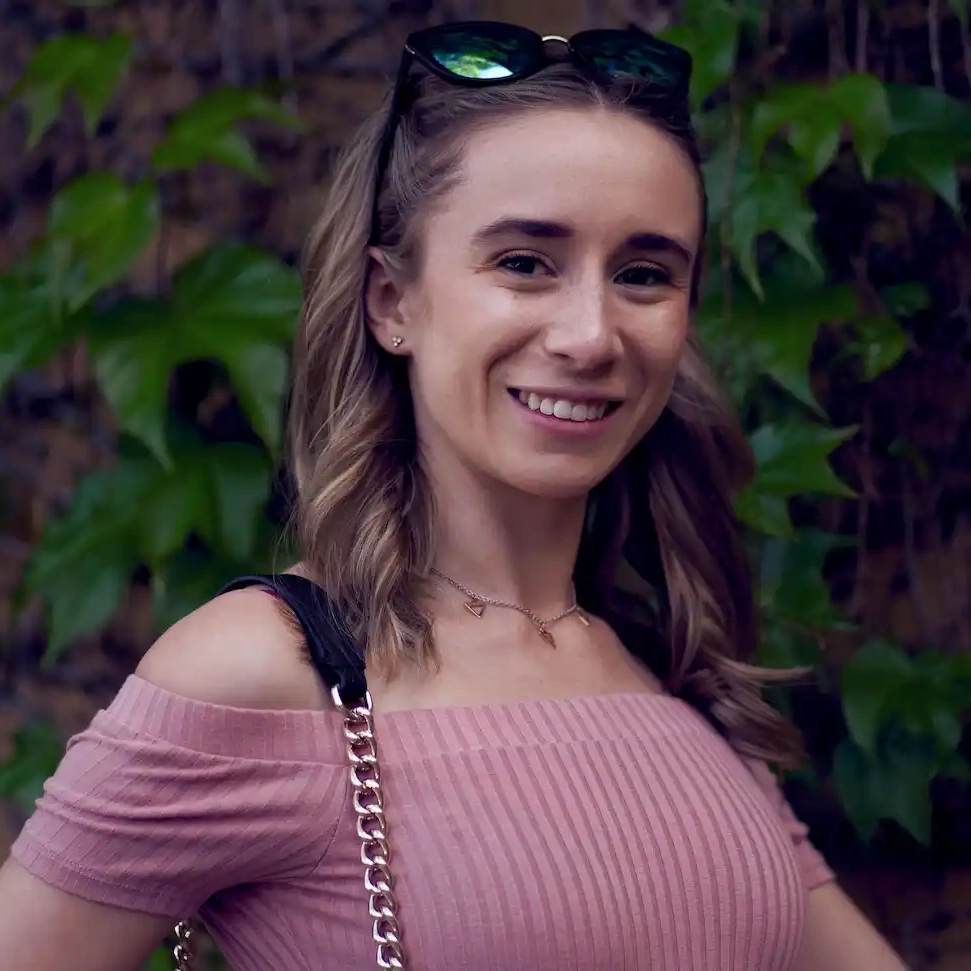
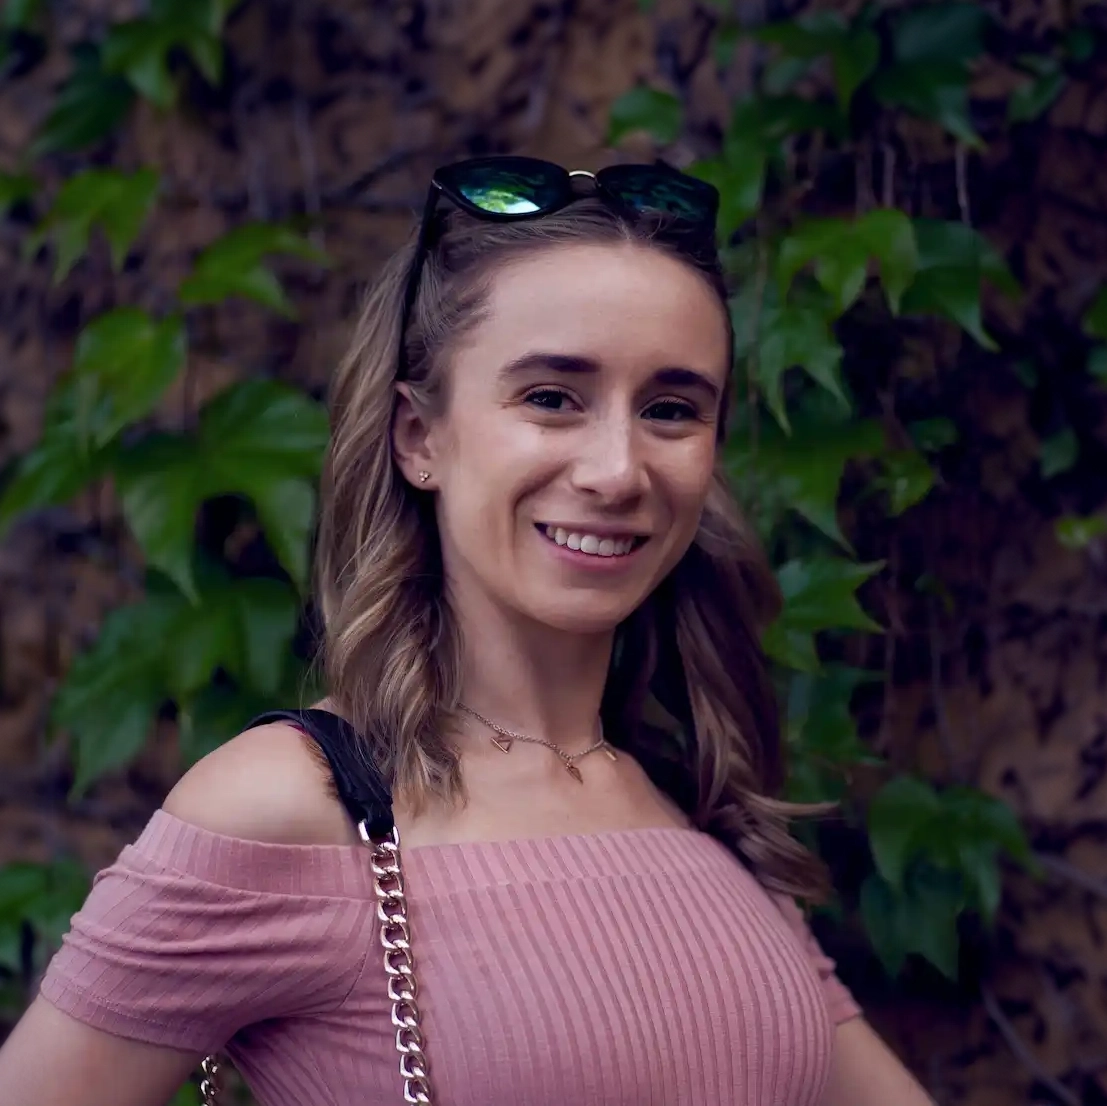
Contact page updates

diff --git a/src/styles/views/about.scss b/src/styles/views/about.scss
@@ -2,55 +2,56 @@
 
 #about-view.about.view {
     .about-trshpuppy {
-        display : flex;
-        align-items: center;
+        display     : flex;
+        align-items : center;
 
         .hero {
-            flex-shrink: 0;
-            width: 20rem;
-            height: 20rem;
-            background-repeat : no-repeat;
-            background-size   : 100%;
-            background-position: center;
-            border-radius: 50%;
-            border: 0.5rem solid $border_color;
-            transition: background-size 200ms, transform 120ms;
+            flex-shrink         : 0;
+            width               : 20rem;
+            height              : 20rem;
+            background-repeat   : no-repeat;
+            background-size     : 100%;
+            background-position : center;
+            border-radius       : 50%;
+            border              : 0.25rem solid $border_color;
+            transition          : background-size 200ms, transform 120ms;
 
             &:hover {
-                background-size: 120%;
-                transform: scale(120%);
-                border-width: 0.25rem;
+                background-size : 120%;
+                transform       : scale(120%);
+                border-width    : 0.15rem;
             }
 
             &:nth-child(odd) {
-                margin-right: 2rem;
+                margin-right : 2rem;
             }
 
             &:nth-child(even) {
-                margin-left: 2rem;
+                margin-left : 2rem;
             }
         }
 
         h2 {
-            font-family: Orbitron, monospace;
+            font-family             : Orbitron, monospace;
+            background-image        : linear-gradient(45deg, $active, $pink);
+            -webkit-background-clip : text;
+            color                   : transparent;
         }
 
         .hero.loki-and-rose {
-            background-image: url("img/loki-and-rose.webp");
-            background-position: center;
+            background-image : url("img/loki-and-rose.webp");
         }
 
         .hero.rose {
-            background-image: url("img/rose.webp");
-            background-position: center;
+            background-image : url("img/rose.webp");
         }
 
         .hero.loki-sunset {
-            background-image  : url("img/loki-sunset.webp");
+            background-image : url("img/loki-sunset.webp");
         }
 
         .info {
-            font-size: 1.2rem;
+            font-size : 1.2rem;
         }
     }
 }

diff --git a/src/views/Contact.jsx b/src/views/Contact.jsx
@@ -1,14 +1,39 @@
-import Loader from "../components/Loader.jsx";
+import Loader from '../components/Loader.jsx';
 
 const Contact = () => {
-    return (
-        <article id="contact-view" className="contact view">
-            <p>
-                <Loader />
-            </p>
-
-        </article>
-    )
-}
+   return (
+      <article id="contact-view" className="contact view">
+         <section>
+            <div className="hero hero-about"></div>
+            <div className="info">
+               <h2>Want to Chat?</h2>
+               <p>I'm active on a few platforms, please feel free to contact me on any of them.</p>
+            </div>
+         </section>
+         <section>
+            <div className="info">
+               <h2>Twitch</h2>
+               <p>About twitch</p>
+            </div>
+            <div className="hero hero-twitch"></div>
+         </section>
+         <section>
+            <div className="hero hero-youtube"></div>
+            <div className="info">
+               <h2>Youtube</h2>
+               <p>About youtube</p>
+            </div>
+         </section>
+         <section>
+            <h2>Github</h2>
+            <div className="hero hero-github"></div>
+            <div className="info">
+               <p>About twitch</p>
+               <div className="hero hero-github"></div>
+            </div>
+         </section>
+      </article>
+   );
+};
 
 export default Contact;

diff --git a/src/styles/views/contact.scss b/src/styles/views/contact.scss
@@ -1,0 +1,62 @@
+@use "../variables" as *;
+
+#contact-view.contact.view {
+    section {
+        display: flex;
+        align-items: center;
+        margin: 2rem 0;
+        width: 100%;
+    }
+
+    .info {
+        width: 100%;
+    }
+
+    .hero {
+        height: 20rem;
+        width: 20rem;
+        border: 0.25rem solid $border_color;
+        flex-shrink: 0;
+        border-radius: 2rem;
+        background-size: 100%;
+        background-position: center;
+        background-repeat: no-repeat;
+        transition          : background-size 200ms, transform 120ms;
+
+        &:hover {
+            background-size : 120%;
+            transform       : scale(120%);
+            border-width    : 0.15rem;
+        }
+
+        &:nth-child(odd) {
+            margin-right: 2rem;
+        }
+
+        &:nth-child(even) {
+            margin-left: 2rem;
+        }
+    }
+
+    .hero-about {
+        position: relative;
+        background-image: url("img/pixel/p-contact.webp");
+        filter: $hero_filter;
+
+        &:after {
+            content: "";
+            position: absolute;
+            height: 100%;
+            width: 100%;
+            top: 0;
+            left: 0;
+            background-image: $card_after_bg;
+
+        }
+    }
+
+    .hero-twitch {
+        background-image: url("img/twitch.webp");
+        width: 35rem;
+    }
+}

diff --git a/src/styles/partials/home-links.scss b/src/styles/partials/home-links.scss
@@ -42,9 +42,10 @@
             border-bottom-right-radius : 0;
             background-size: 100%;
             transition: background-size 200ms;
+            filter: $hero_filter;
 
             &:hover {
-                background-size: 150%;
+                background-size: 130%;
             }
 
             &:after {
@@ -56,7 +57,7 @@
                 height                  : 100%;
                 border-top-left-radius  : 1rem;
                 border-top-right-radius : 1rem;
-                background-image        : linear-gradient(to bottom, transparent, rgba(#000, 0.55));
+                background-image        : $card_after_bg;
             }
 
             svg {

diff --git a/src/styles/views/home.scss b/src/styles/views/home.scss
@@ -58,7 +58,7 @@
         background-size     : 100%;
         border-radius       : 2rem;
         border              : 3px solid $border_color;
-        filter              : grayscale(0.25) sepia(0.25);
+        filter              : $hero_filter;
         transition: background-size 100ms;
 
 

diff --git a/src/styles/variables.scss b/src/styles/variables.scss
@@ -13,7 +13,8 @@ $pink        : #CE174E;
 $pink_medium : #6C243A;
 $socials_bg  : #679497;
 $socials_btn : #FED8E5;
-
+$card_after_bg: linear-gradient(to bottom, transparent, rgba(#000, 0.55));
+$hero_filter: grayscale(0.25) sepia(0.25);
 
 /**
 * Header

diff --git a/src/styles/index.scss b/src/styles/index.scss
@@ -5,6 +5,7 @@
 @use 'views/home';
 @use "views/blog";
 @use "views/about";
+@use "views/contact";
 @use "partials/page-title";
 @use "partials/home-links";
 @use 'partials/pong';
